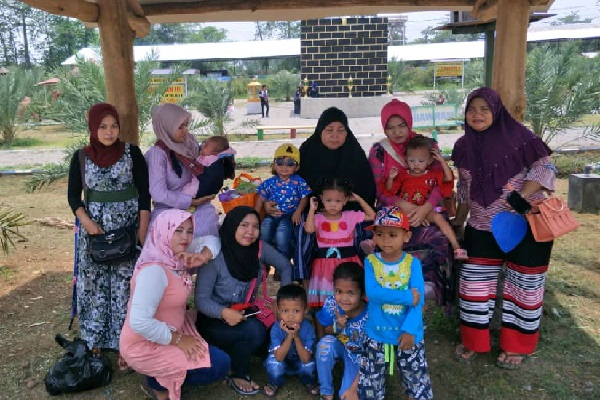
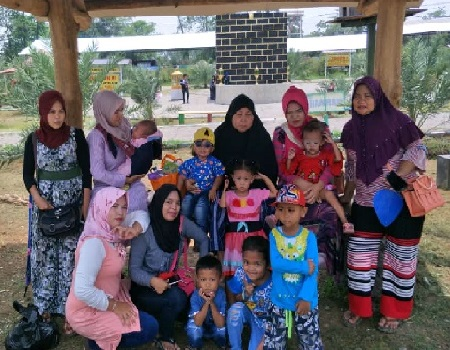
mengubah ukuran foto dan video

diff --git a/AlbumFoto.HTML b/AlbumFoto.HTML
@@ -68,7 +68,7 @@
 			    <a class="carousel-item" href="#!"><img src="img/11.jpeg" class="responsive-img materialboxed"></a>
 			    <a class="carousel-item" href="#!"><img src="img/3.jpg" class="responsive-img materialboxed"></a>
 			    <a class="carousel-item" href="#!"><img src="img/5.jpg" class="responsive-img materialboxed"></a>
-			    <a class="carousel-item" href="#"><img src="img/7.jpg" class="responsive-img materialboxed"></a>
+			    <a class="carousel-item" href="#"><img src="img/8.jpg" class="responsive-img materialboxed"></a>
 			    
 			</div>
 		</div>	
@@ -85,17 +85,7 @@
 
 <!--video-->
 <section>
-	<div class="container">
-		<p><b>Kakak lagi belanja</b></p>
-		<video width="120" height="240" autoplay muted>
-			<source src="video/1.mp4" type="video/mp4">
-			<source src="movie.ogg" type="video/ogg">
-		</video>
-		<p><b>Adek Joget</b></p>
-		<video width="120" height="240" autoplay muted>
-		  <source src="video/2.mp4" type="video/mp4">
-		  <source src="movie.ogg" type="video/ogg">
-		</video>
+	<div class="container">		
 		</video>
 		<p><b>AYAH</b></p>
 		<video width="120" height="240" autoplay muted>
